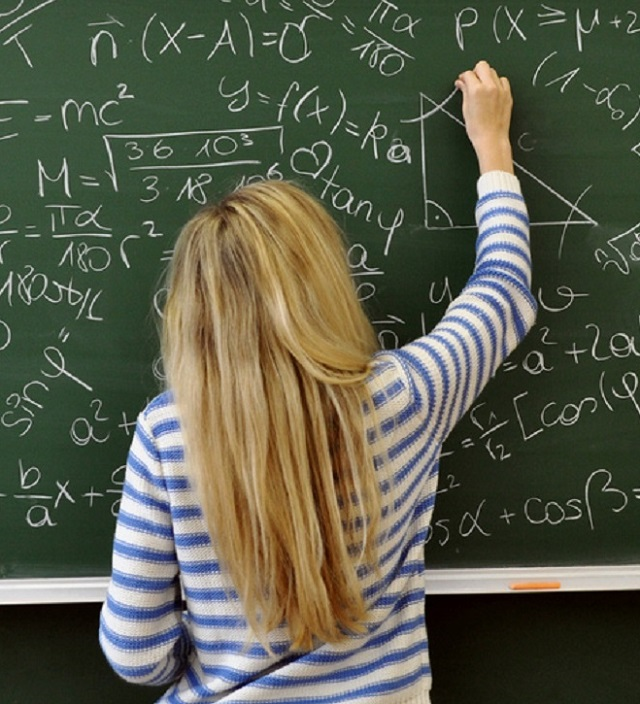
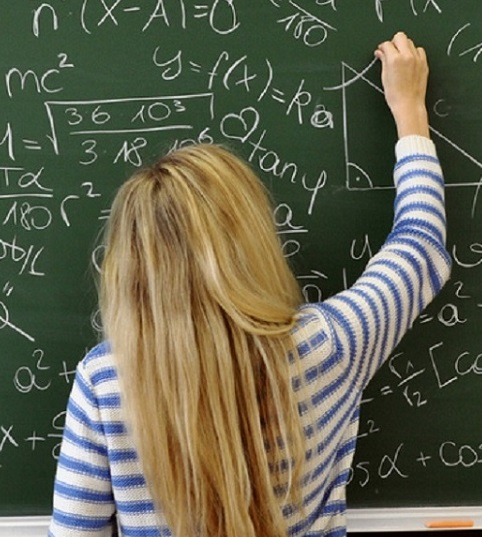
offers section renewed with new pictures

diff --git a/app/index.html b/app/index.html
@@ -63,19 +63,19 @@
   <div class="wrapper">
     <h2 class="headline headline__b-margin-sm">FOYA taklif etadi:</h2>
     <h3 class=" headline headline__sub headline__b-margin-lg">Maktab fanlari uchun kurslar</h3>
-    <img srcset="assets/images/school-sm-240.jpg 250w, assets/images/school-med-640.jpg 650w" alt="school girl writing on the blackboard">
+    <img sizes="(min-width:950px) 482px, 100vw" srcset="assets/images/schoolgirl-sm-low-res.jpg 380w, assets/images/schoolgirl-sm.jpg 482w, assets/images/schoolgirl-sm-hi-dpi.jpg 1005w" alt="schoolgirl is writing on the blackboard">
     <p>Lorem ipsum dolor sit amet, consectetur adipisicing elit, sed do eiusmod tempor incididunt ut labore et dolore magna aliqua. Ut enim ad minim veniam, quis nostrud exercitation ullamco laboris nisi ut aliquip ex ea commodo consequat. Duis aute irure dolor in reprehenderit in voluptate velit esse cillum dolore eu fugiat nulla pariatur. <a href="#">Batafsilroq bilmoq</a></p>
 
     <h3 class="headline headline__sub">Universitet qabuli uchun kurslar</h3>
-    <img src="assets/images/uni-admission-exam.jpeg" alt="college flyers celebrating their finish">
+    <img sizes="(min-width:950px) 600px, 100vw" srcset="assets/images/universitet-sinovlar-sm-low-res.jpg 440w, assets/images/universitet-sinovlar-sm.jpg 600w, assets/images/universitet-sinovlar-sm-hi-dpi.jpg 1280w" alt="Universitet imtihon  javoblar varaqasi">
     <p>Lorem ipsum dolor sit amet, consectetur adipisicing elit, sed do eiusmod tempor incididunt ut labore et dolore magna aliqua. Ut enim ad minim veniam, quis nostrud exercitation ullamco laboris nisi ut aliquip ex ea commodo consequat. Duis aute irure dolor in reprehenderit in voluptate velit esse cillum dolore eu fugiat nulla pariatur. <a href="#">Batafsilroq bilmoq</a></p>
 
     <h3 class=" headline headline__sub">Sertifikatlar uchun kurslar</h3>
-    <img src="assets/images/cert-exams-app.png" alt="certificate exams list">
+    <img sizes="(min-width:950px) 480px, 100vw" srcset="assets/images/toefl-ielts-xs.jpeg 240w, assets/images/toefl-ielts-xs-hi-dpi.jpg 480w, assets/images/toefl-ielts-sm-hi-dpi.jpg 1280w" alt="Toefl va IELTS rasmi">
     <p>Lorem ipsum dolor sit amet, consectetur adipisicing elit, sed do eiusmod tempor incididunt ut labore et dolore magna aliqua. Ut enim ad minim veniam, quis nostrud exercitation ullamco laboris nisi ut aliquip ex ea commodo consequat. Duis aute irure dolor in reprehenderit in voluptate velit esse cillum dolore eu fugiat nulla pariatur. <a href="#">Batafsilroq bilmoq</a></p>
 
     <h3 class="headline headline__sub">Xoxishiy kurslar</h3>
-    <img src="assets/images/painting-sm.jpg" alt="ready to draw something awesome">
+    <img sizes="(min-width:950px) 600px, 100vw" srcset="assets/images/drawing-md-low-res.jpg 480w, assets/images/drawing-md.jpg 620w, assets/images/drawing-md-hi-dpi.jpg 2048w" alt="ready to draw something awesome">
     <p>Lorem ipsum dolor sit amet, consectetur adipisicing elit, sed do eiusmod tempor incididunt ut labore et dolore magna aliqua. Ut enim ad minim veniam, quis nostrud exercitation ullamco laboris nisi ut aliquip ex ea commodo consequat. Duis aute irure dolor in reprehenderit in voluptate velit esse cillum dolore eu fugiat nulla pariatur. <a href="#">Batafsilroq bilmoq</a></p>
   </div>
 </div>

diff --git a/app/assets/styles/modules/_wrapper.css b/app/assets/styles/modules/_wrapper.css
@@ -15,10 +15,6 @@
   }
   &--b-margin {
     margin-bottom: 1rem;
-<<<<<<< HEAD
-
-=======
->>>>>>> foya-offers
   }
 
 }

diff --git a/app/temp/styles/styles.css b/app/temp/styles/styles.css
@@ -621,7 +621,6 @@ a {
 
 .wrapper--b-margin {
     margin-bottom: 1rem;
-
   }
 
 .section-spacing {
